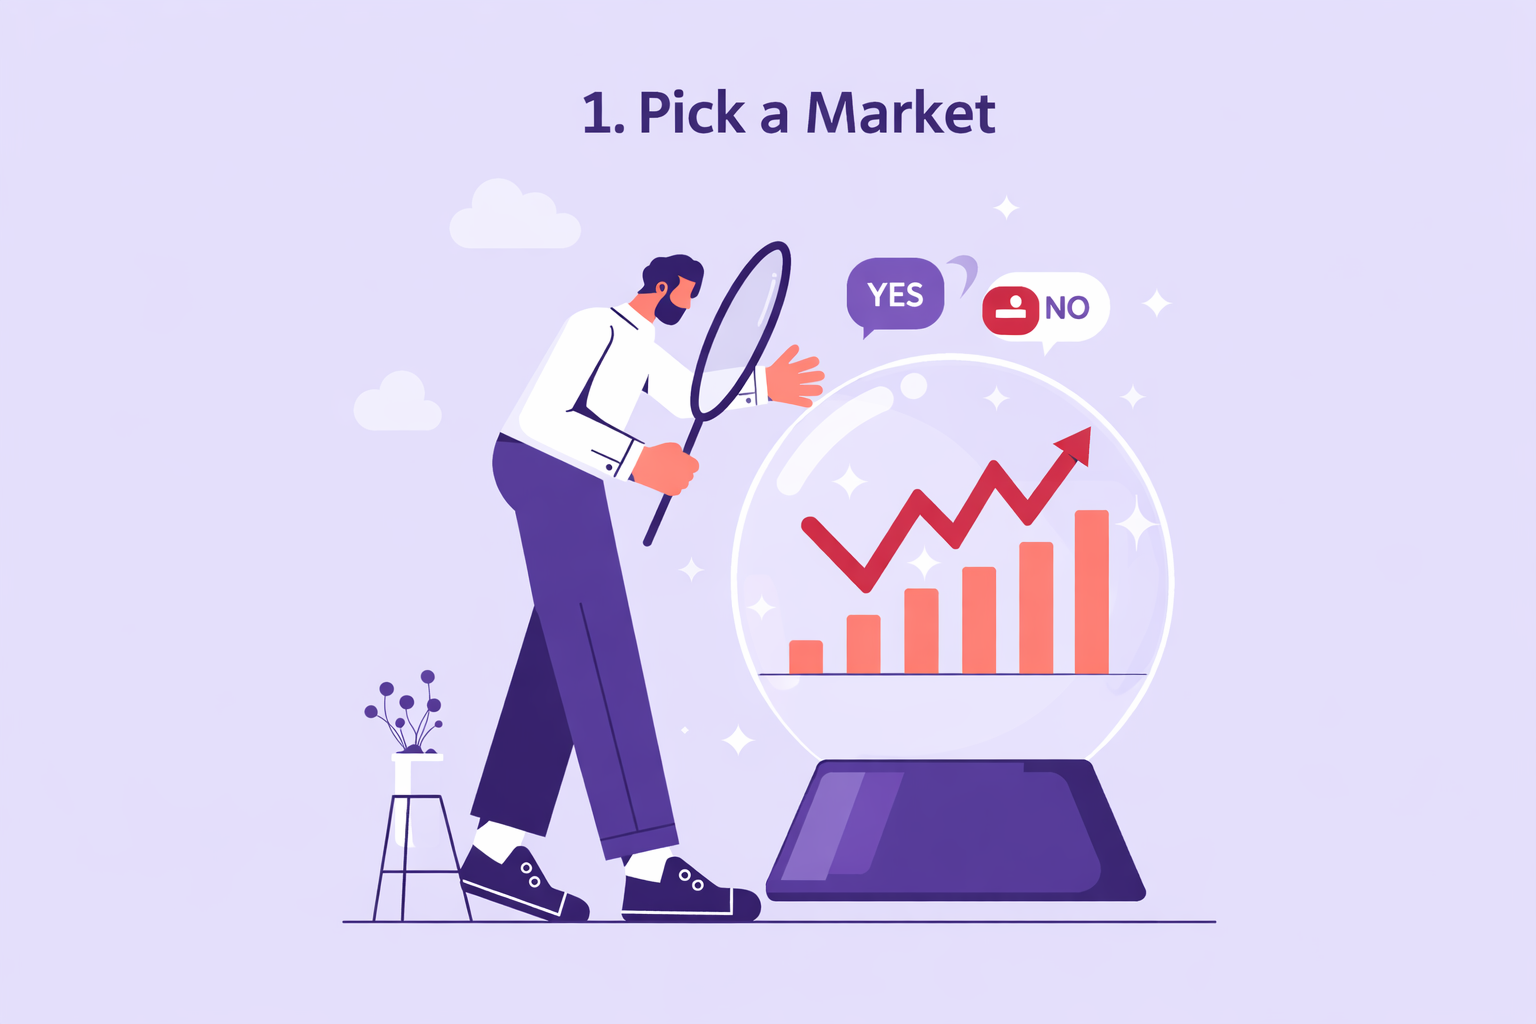
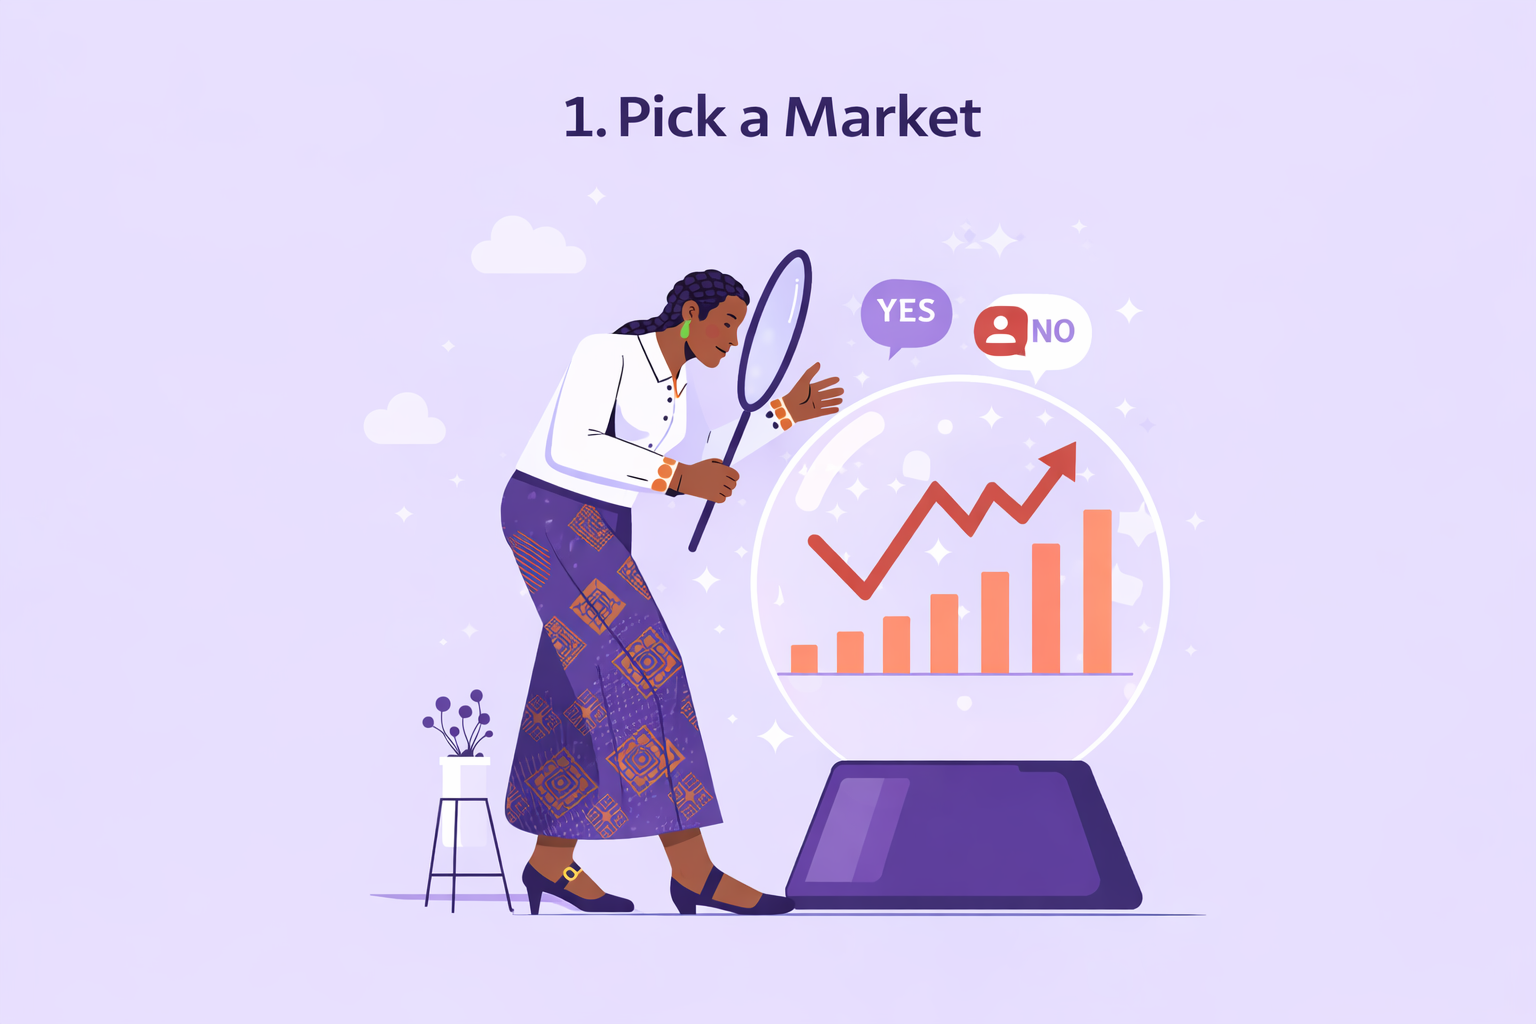
Add search functionality for both landscape and mobile mode. Update how to steps 1-3 with african flat vector art

Changed region(s): [[0.2188, 0.2188, 0.7812, 0.9062], [0.375, 0.0938, 0.6562, 0.1562], [0.6875, 0.7188, 0.7188, 0.75]]

diff --git a/src/routes/+page.svelte b/src/routes/+page.svelte
@@ -5,14 +5,16 @@
 
   import { Bookmark, ChartNoAxesCombined, Gift } from "lucide-svelte";
   import { goto } from "$app/navigation";
-
+  import { searchQuery, searchResults } from "$lib/stores/search";
   // Server data
-  export let data: {
-    isAuthed: boolean;
-    markets: any[];
-    portfolioLabel?: string | null;
-    selectedCategory?: string;
-  };
+  let { data } = $props<{
+    data: {
+      isAuthed: boolean;
+      markets: any[];
+      portfolioLabel?: string | null;
+      selectedCategory?: string;
+    };
+  }>();
   const normalizeCategory = (v?: string | null) =>
     (v ?? "").trim().toLowerCase();
   let isAuthed = data.isAuthed;
@@ -111,37 +113,48 @@
       cls: "bg-muted text-muted-foreground border-border",
     };
   };
+  let activeCategory = $derived(
+    $page.url.searchParams.get("category")?.trim() || "All markets",
+  );
 
-  $: activeCategory =
-    $page.url.searchParams.get("category")?.trim() || "All markets";
+  let filteredMarkets = $derived(
+    (() => {
+      const categoryFiltered =
+        activeCategory === "All markets"
+          ? [...data.markets]
+          : data.markets.filter(
+              (m: any) =>
+                m.category &&
+                normalizeCategory(m.category) ===
+                  normalizeCategory(activeCategory),
+            );
 
-  $: filteredMarkets = (
-    activeCategory === "All markets"
-      ? [...data.markets]
-      : data.markets.filter(
-          (m: any) =>
-            m.category &&
-            normalizeCategory(m.category) === normalizeCategory(activeCategory),
-        )
-  ).sort((a: any, b: any) => {
-    const av = a.volume_cents ?? 0;
-    const bv = b.volume_cents ?? 0;
-    const statusRank = (s: string) =>
-      s === "open" ? 0 : s === "closed" ? 1 : s === "settled" ? 2 : 3;
+      const q = $searchQuery?.trim().toLowerCase();
 
-    return (
-      statusRank(a.status) - statusRank(b.status) ||
-      (b.volume_cents ?? 0) - (a.volume_cents ?? 0)
-    );
+      const searchFiltered = q
+        ? categoryFiltered.filter((m: any) =>
+            m.title?.toLowerCase().includes(q),
+          )
+        : categoryFiltered;
+
+      const statusRank = (s: string) =>
+        s === "open" ? 0 : s === "closed" ? 1 : s === "settled" ? 2 : 3;
+
+      return searchFiltered.sort(
+        (a: any, b: any) =>
+          statusRank(a.status) - statusRank(b.status) ||
+          (b.volume_cents ?? 0) - (a.volume_cents ?? 0),
+      );
+    })(),
+  );
+
+  $effect(() => {
+    searchResults.set(filteredMarkets);
   });
 
-  $: if (filteredMarkets) {
-    visibleCount = LOAD_STEP;
-  }
-  let visibleCount = 8;
+  let visibleCount = $state(8);
   const LOAD_STEP = 8;
-
-  $: visibleMarkets = filteredMarkets.slice(0, visibleCount);
+  let visibleMarkets = $derived(filteredMarkets.slice(0, visibleCount));
 </script>
 
 <svelte:head>
@@ -184,7 +197,7 @@
             ? "bg-primary/15 text-primary"
             : "text-muted-foreground hover:text-foreground hover:bg-accent"
         }`}
-        on:click={() =>
+        onclick={() =>
           goto(
             c === "All markets" ? "/" : `/?category=${encodeURIComponent(c)}`,
           )}
@@ -199,6 +212,11 @@
     Grid CONTENT
   =========================== -->
 <main class="mx-auto w-full max-w-[1400px] px-4 md:px-6 py-6">
+  {#if $searchQuery?.trim()}
+    <div class="mb-4 text-xs text-muted-foreground">
+      {filteredMarkets.length} result{filteredMarkets.length === 1 ? "" : "s"}
+    </div>
+  {/if}
   {#if activeCategory !== "All markets" && filteredMarkets.length === 0}
     <div class="mt-10 rounded-xl border border-border/60 bg-card/40 px-6 py-16">
       <div class="flex flex-col items-center justify-center text-center">
@@ -330,16 +348,20 @@
               <div class="grid grid-cols-2 gap-3">
                 <button
                   class="btn btn-yes"
-                  on:click|preventDefault={() =>
-                    goto(`/market/${m.id}?side=yes`)}
+                  onclick={(e) => {
+                    e.preventDefault();
+                    goto(`/market/${m.id}?side=yes`);
+                  }}
                 >
                   Yes
                 </button>
 
                 <button
                   class="btn btn-no"
-                  on:click|preventDefault={() =>
-                    goto(`/market/${m.id}?side=no`)}
+                  onclick={(e) => {
+                    e.preventDefault();
+                    goto(`/market/${m.id}?side=no`);
+                  }}
                 >
                   No
                 </button>
@@ -367,7 +389,7 @@
       <div class="mt-8 flex justify-center">
         <button
           class="rounded-md border border-border bg-input px-4 py-2 text-sm hover:bg-card transition"
-          on:click={() => (visibleCount += LOAD_STEP)}
+          onclick={() => (visibleCount += LOAD_STEP)}
         >
           See more
         </button>

diff --git a/src/routes/+layout.svelte b/src/routes/+layout.svelte
@@ -1,11 +1,31 @@
 <!-- src/routes/+layout.svelte -->
 <script lang="ts">
+  import { page } from "$app/stores";
   import "../app.css";
   import { House, Search, ChartNoAxesCombined, Menu } from "lucide-svelte";
+  import { tick } from "svelte";
+
+  import { searchQuery } from "$lib/stores/search";
+  import { searchResults } from "$lib/stores/search";
 
   let title = "MaoniMarket | Kenya's Largest Prediction Market";
   let { children, data } = $props();
   const isAuthed = $derived(data?.isAuthed ?? false);
+
+  let showMobileSearch = $state(false);
+  let mobileQuery = $state("");
+  $effect(() => {
+    searchQuery.set(mobileQuery);
+  });
+  $effect(() => {
+    $page.url; // react to navigation
+
+    showMobileSearch = false;
+    mobileQuery = "";
+  });
+
+  // let mobileSearchInput = $state<HTMLInputElement | null>(null);
+  let mobileSearchInput = $state<HTMLInputElement | null>(null);
 </script>
 
 <svelte:head>
@@ -38,6 +58,79 @@
   {@render children?.()}
 </div>
 
+{#if showMobileSearch}
+  <div
+    class="fixed inset-0 z-50 bg-background/80 backdrop-blur flex flex-col p-4"
+  >
+    <!-- Search Bar -->
+    <div class="flex gap-2 mb-4">
+      <input
+        bind:this={mobileSearchInput}
+        bind:value={mobileQuery}
+        class="flex-1 rounded-md border border-border bg-input px-3 py-2 text-sm"
+        placeholder="Search markets"
+      />
+
+      <button
+        class="text-sm border border-border bg-card px-3 py-2 rounded"
+        onclick={() => {
+          mobileQuery = "";
+          showMobileSearch = false;
+        }}
+      >
+        Cancel
+      </button>
+    </div>
+
+    <!-- Results -->
+    <div
+      class="flex-1 overflow-y-auto rounded-xl border border-border bg-card/80 divide-y divide-border"
+    >
+      {#if mobileQuery.trim() === ""}
+        <div class="p-6 text-sm text-muted-foreground text-center">
+          Start typing to search
+        </div>
+      {:else if $searchResults.length === 0}
+        <div class="p-6 text-sm text-muted-foreground text-center">
+          No markets found
+        </div>
+      {:else}
+        {#each $searchResults.slice(0, 10) as m}
+          <a
+            href={`/market/${m.id}`}
+            class="flex items-center justify-between p-4 hover:bg-accent transition"
+          >
+            <div class="flex items-center gap-3 flex-1">
+              <div
+                class="h-10 w-10 rounded bg-muted overflow-hidden
+                      flex items-center justify-center text-xs"
+              >
+                {#if m.image_url}
+                  <img
+                    src={m.image_url}
+                    alt={m.title ?? ""}
+                    class="h-full w-full object-cover"
+                  />
+                {:else}
+                  {m.title?.slice(0, 2)?.toUpperCase() ?? "MK"}
+                {/if}
+              </div>
+
+              <div class="text-sm font-medium line-clamp-2">
+                {m.title}
+              </div>
+            </div>
+
+            <div class="text-sm font-semibold">
+              {m.outcomes?.[0]?.price_cents ?? 50}%
+            </div>
+          </a>
+        {/each}
+      {/if}
+    </div>
+  </div>
+{/if}
+
 <nav
   class="fixed bottom-0 left-0 right-0 z-40 md:hidden
     border-t border-border bg-background/90 backdrop-blur"
@@ -50,10 +143,17 @@
     </a>
 
     <!-- Search -->
-    <a href="/" class="flex flex-col items-center justify-center gap-1">
+    <button
+      class="flex flex-col items-center justify-center gap-1"
+      onclick={async () => {
+        showMobileSearch = true;
+        await tick();
+        mobileSearchInput?.focus();
+      }}
+    >
       <Search class="h-5 w-5" />
       <span>Search</span>
-    </a>
+    </button>
 
     <!-- Portfolio -->
     {#if isAuthed}

diff --git a/src/lib/components/layout/AppHeader.svelte b/src/lib/components/layout/AppHeader.svelte
@@ -17,7 +17,7 @@
     CirclePlus,
   } from "lucide-svelte";
   import { goto } from "$app/navigation";
-
+  import { searchQuery } from "$lib/stores/search";
   export let isAuthed: boolean;
   export let portfolioLabel: string = "Portfolio KES 0.00";
   export let portfolioHref: string = "/portfolio";
@@ -50,6 +50,10 @@
     toggleTheme();
     isDark = document.documentElement.classList.contains("dark");
   };
+
+  let query = "";
+
+  $: searchQuery.set(query);
 </script>
 
 <header
@@ -70,13 +74,14 @@
       <span class="font-semibold">MaoniMarket</span>
     </a>
 
-    <!-- Search (DESKTOP ONLY) -->
+    <!-- Search (DESKTOP) -->
     <div class="ml-3 flex-1 hidden sm:block">
       <input
+        bind:value={query}
         class="w-full sm:w-[360px] md:w-[480px] lg:w-[560px]
-          rounded-md border border-border bg-input px-3 py-2 text-sm
-          placeholder-muted-foreground focus:outline-none
-          focus:ring-2 focus:ring-ring"
+      rounded-md border border-border bg-input px-3 py-2 text-sm
+      placeholder-muted-foreground focus:outline-none
+      focus:ring-2 focus:ring-ring"
         placeholder="Search markets"
       />
     </div>
@@ -256,7 +261,7 @@
 {#if !isAuthed && !hideHowItWorksBar}
   <div
     class="fixed bottom-16 left-0 right-0 z-40 sm:hidden
-           border-t border-border bg-background/95 backdrop-blur"
+      border-t border-border bg-background/95 backdrop-blur"
   >
     <div class="relative h-12 flex items-center justify-center px-4 text-sm">
       <button
@@ -272,7 +277,7 @@
 
       <button
         class="absolute right-4 inline-flex h-8 w-8 items-center justify-center
-         rounded-md border border-border bg-card hover:bg-accent transition"
+          rounded-md border border-border bg-card hover:bg-accent transition"
         on:click={() => (hideHowItWorksBar = true)}
         aria-label="Close"
       >
@@ -331,7 +336,7 @@
 
           <button
             class="inline-flex h-8 w-8 items-center justify-center
-         rounded-md hover:bg-accent transition"
+          rounded-md hover:bg-accent transition"
             on:click={() => (showHowItWorks = false)}
             aria-label="Dismiss"
           >

diff --git a/src/routes/(public)/terms/+page.svelte b/src/routes/(public)/terms/+page.svelte
@@ -17,9 +17,9 @@
   </div>
   <div
     class="rounded-2xl border border-border/60
-           bg-card/80 backdrop-blur-md
-           shadow-xl shadow-black/20
-           p-8 sm:p-12"
+      bg-card/80 backdrop-blur-md
+      shadow-xl shadow-black/20
+      p-8 sm:p-12"
   >
     <h1 class="text-3xl font-bold mb-4">Terms and Conditions</h1>
 

diff --git a/src/routes/(public)/privacy/+page.svelte b/src/routes/(public)/privacy/+page.svelte
@@ -17,9 +17,9 @@
   </div>
   <div
     class="rounded-2xl border border-border/60
-           bg-card/80 backdrop-blur-md
-           shadow-xl shadow-black/20
-           p-8 sm:p-12"
+      bg-card/80 backdrop-blur-md
+      shadow-xl shadow-black/20
+      p-8 sm:p-12"
   >
     <h1 class="text-3xl font-bold mb-4">Privacy Policy</h1>
 

diff --git a/src/lib/stores/search.ts b/src/lib/stores/search.ts
@@ -1,0 +1,5 @@
+// src/lib/stores/search.ts
+import { writable } from "svelte/store";
+
+export const searchQuery = writable("");
+export const searchResults = writable<any[]>([]);
